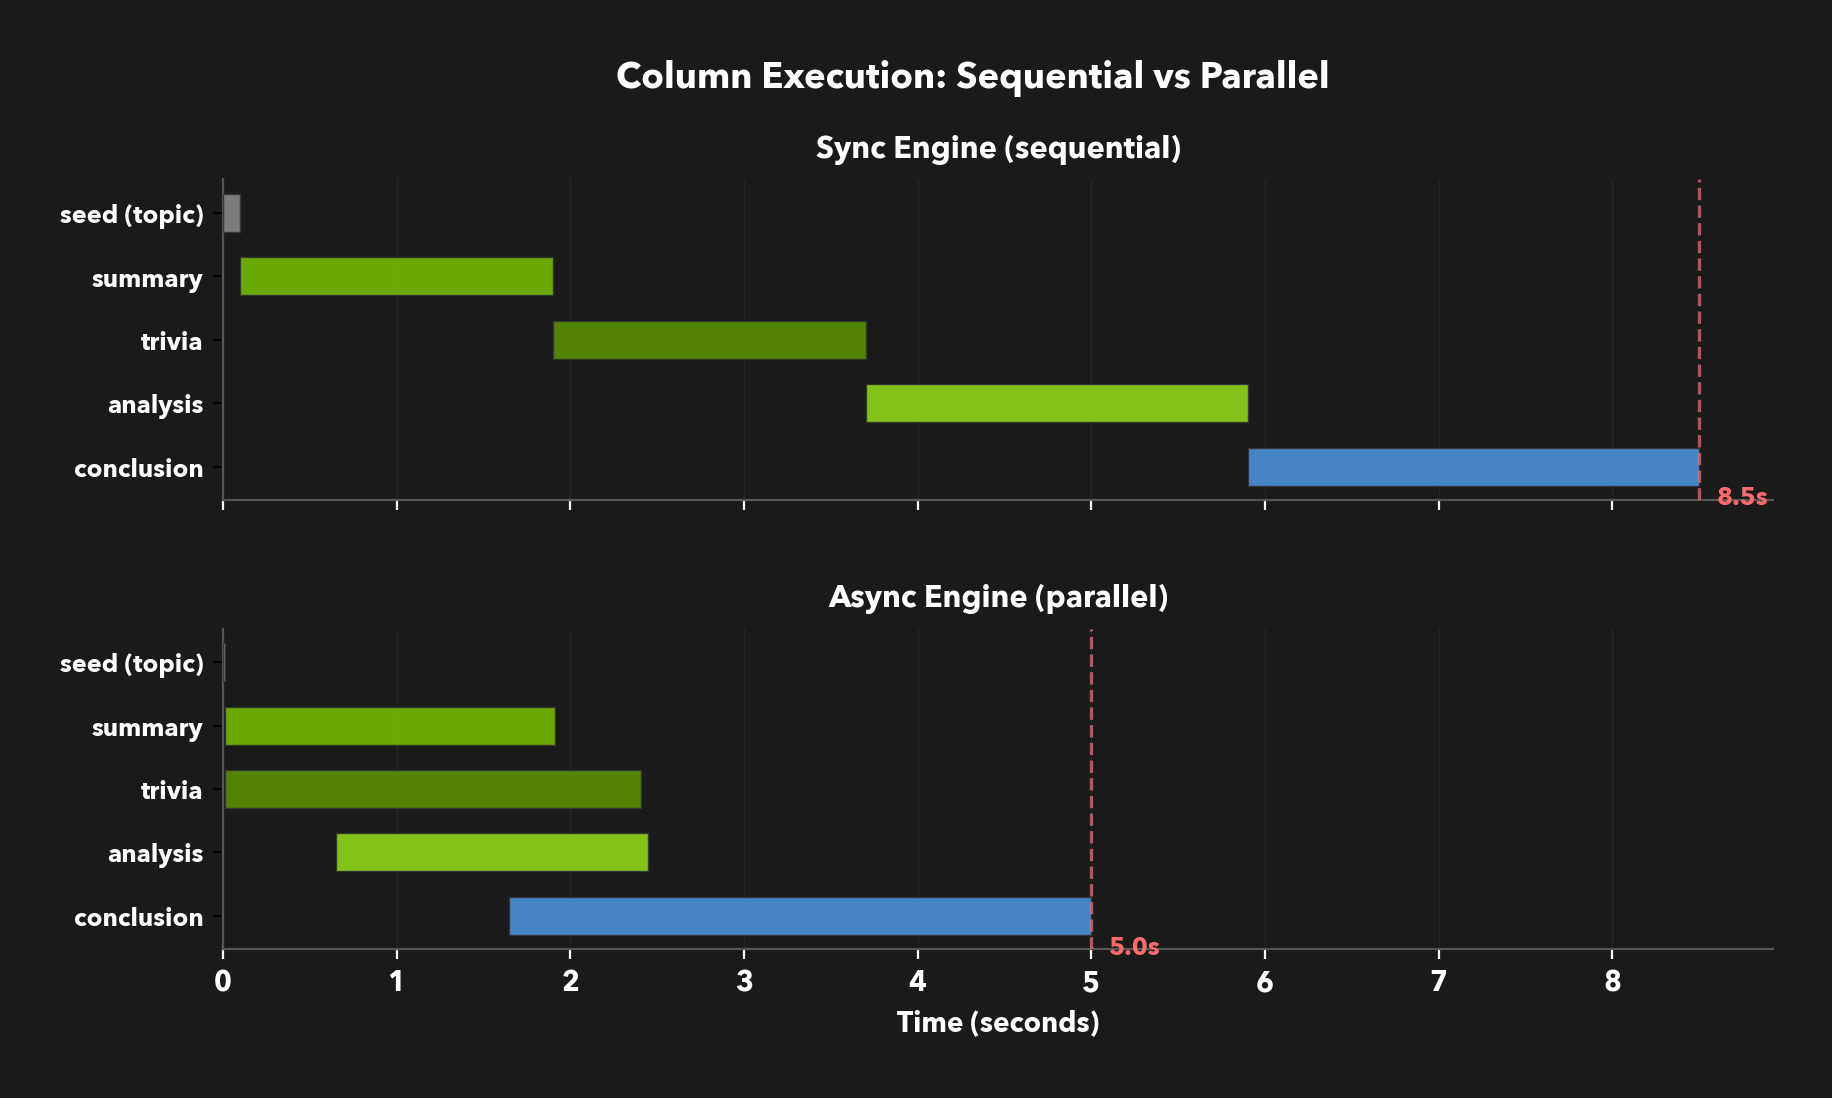
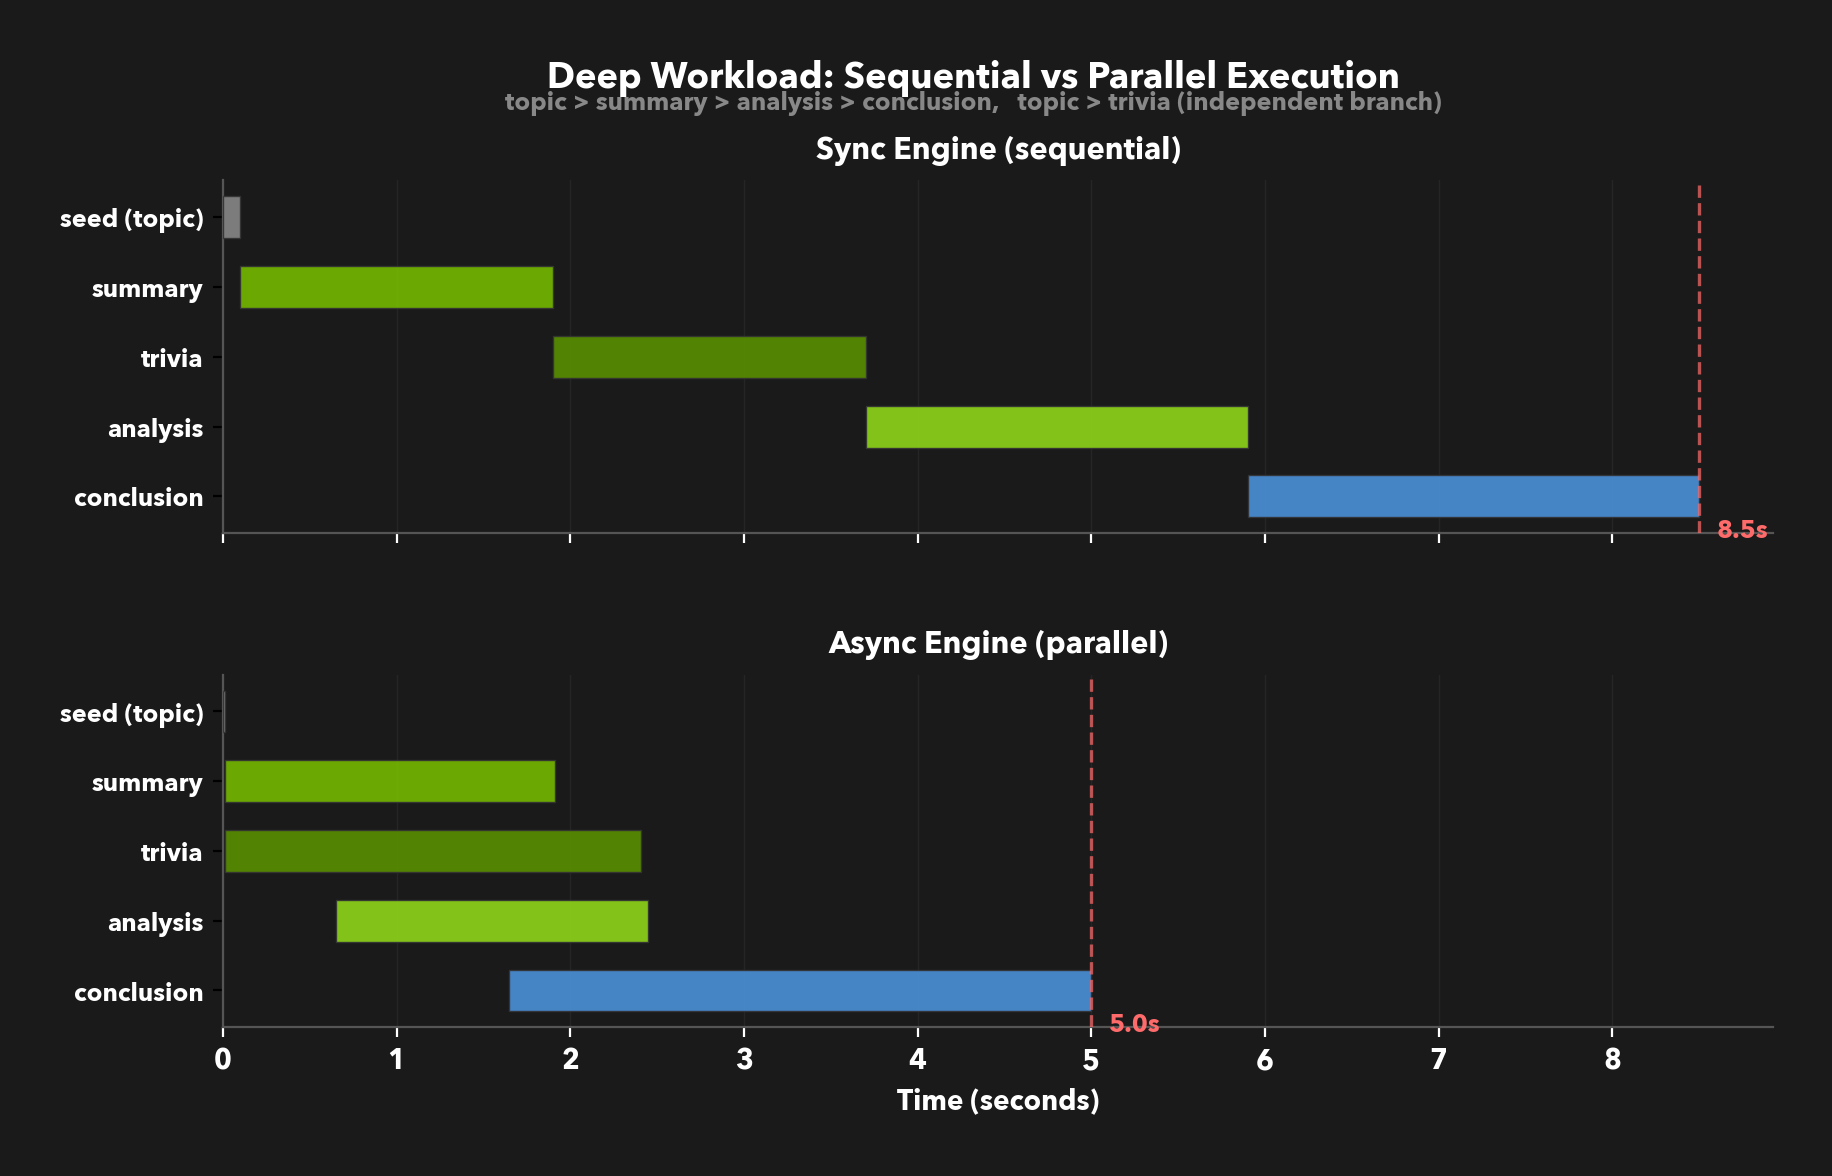
docs: improve timeline figure context and labeling
Add DAG subtitle to sync-vs-async timeline figure and bridge the
surrounding text to explain which workload shape is being shown.

diff --git a/docs/devnotes/posts/async-engine.md b/docs/devnotes/posts/async-engine.md
@@ -27,7 +27,7 @@ The async engine changes that. It reads the same dependency graph, dispatches ta
 
 ## **The Bottleneck Was Structural**
 
-Consider a pipeline that generates content about a topic. You have a `topic` sampler, two columns that branch off it independently (`summary` and `trivia`), then an `analysis` that depends on `summary`, and a `conclusion` that depends on `analysis`:
+Consider a pipeline with a branching dependency graph: a `topic` sampler feeds two independent columns (`summary` and `trivia`), then `analysis` depends on `summary`, and `conclusion` depends on `analysis`. The DAG looks like the "deep" shape below, bottom left:
 
 <div style="text-align: center;" markdown>
 
@@ -37,7 +37,7 @@ Consider a pipeline that generates content about a topic. You have a `topic` sam
 
 In the sync engine, this pipeline takes about 8.5 seconds for 10 records. Each column waits for the previous to finish, even when there's no dependency between them. `trivia` waits for `summary` to complete despite not needing its output. Most of the wall-clock time is spent waiting on LLM responses that could have been in flight simultaneously.
 
-The fix isn't "make the LLM faster." It's "stop waiting when you don't have to."
+The fix isn't "make the LLM faster." It's "stop waiting when you don't have to." The figure below shows the same deep pipeline under both engines, with each bar representing the time span a column is actively generating:
 
 <div style="text-align: center;" markdown>
 
@@ -45,7 +45,7 @@ The fix isn't "make the LLM faster." It's "stop waiting when you don't have to."
 
 </div>
 
-The async engine dispatches `summary` and `trivia` in parallel as soon as `topic` finishes. `analysis` starts as soon as the first `summary` rows complete, overlapping with `trivia` which is still running independently. `conclusion` fires once `analysis` rows are ready. Same pipeline, same config, about 22% less wall-clock time.
+In the sync timeline (top), columns run one after another regardless of dependencies. In the async timeline (bottom), `summary` and `trivia` start at the same time. `analysis` kicks off as soon as the first `summary` rows complete, overlapping with `trivia` which is still running independently. `conclusion` fires once `analysis` rows are ready. Same pipeline, same config, 41% less wall-clock time.
 
 ## **Three Layers of Concurrency**
 
